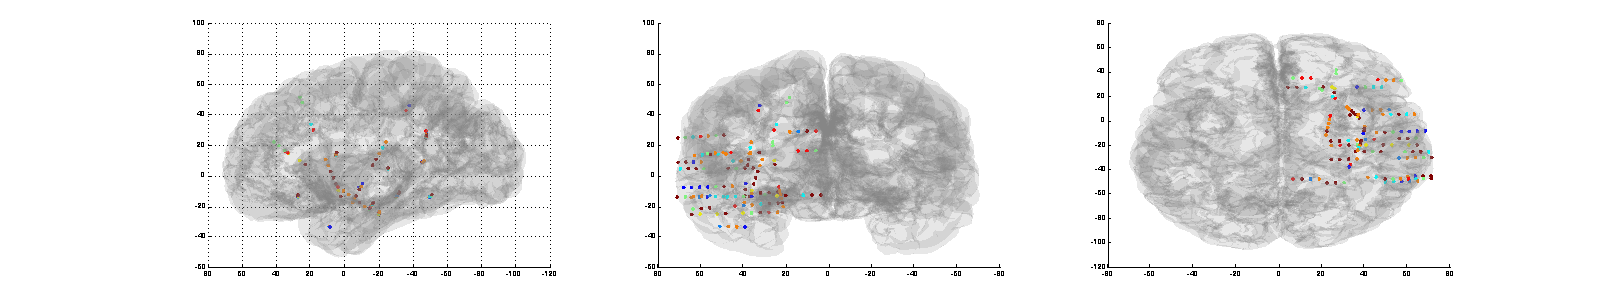
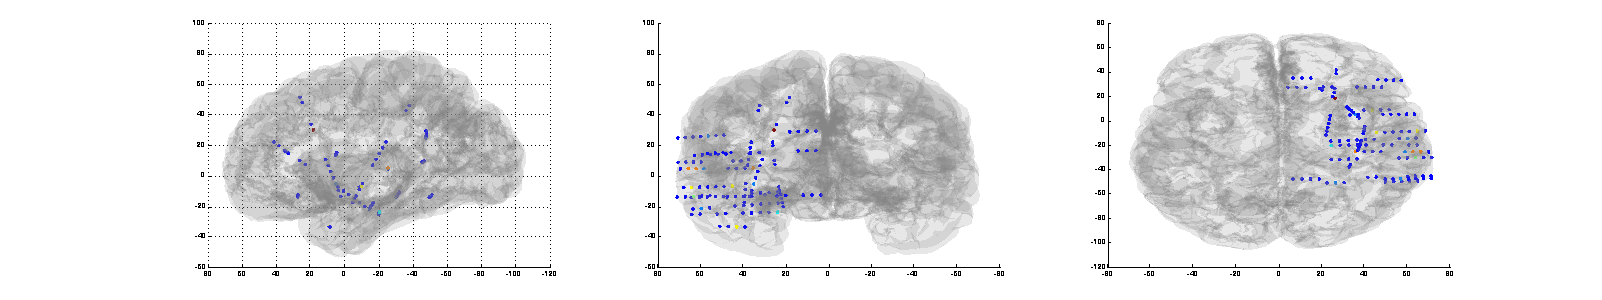
Plot probes to layer assignmed for all subjects, for each subject and for all subject per layer
Former-commit-id: e016f2ae005371a682de9434db48fba35d36eaea

diff --git a/Collusion/plot_map_all_subjects_per_layer.m b/Collusion/plot_map_all_subjects_per_layer.m
@@ -1,0 +1,73 @@
+%
+% Plot probes with colors based on the assigned layer
+% Each plot holds one layer and all subjects
+%
+
+%% List of subject for whom we have the mapping
+listing = dir('../../Data/Intracranial/Probe_to_Layer_Maps/*.txt')
+
+%% Load mesh data
+addpath('../Intracranial/lib/mnimesh')
+[tri, coord, nbr, normal]=mni_getmesh('../Intracranial/lib/mnimesh/outersurface.obj');
+color = zeros(size(coord(3, :)));
+
+
+%% Generate figure
+
+% layer color scale
+layercolors = jet(8);
+
+% for each layer
+for lid = 1:8
+
+    % plot the mesh
+    fig = figure('Position', [0, 0, 1600, 300], 'Visible', 'off');
+    xview = subplot(1, 3, 1);
+    mesh = trisurf(tri, coord(1,:), coord(2,:), coord(3,:), color, 'facealpha', 0.1);
+    colormap(gray);
+    set(mesh, 'edgecolor', 'none');
+    hold on;
+    
+    % for each subject
+    for fid = 1:length(listing)
+        [pathstr, name, ext] = fileparts(listing(fid).name);
+        subject = name;
+
+        % display progress
+        disp(['Processing ' num2str(fid) '/' num2str(length(listing)) ': ' subject '...'])
+
+        % load the data
+        load(['../../Data/Intracranial/Processed/maxamp/' subject '.mat'])
+
+        % load the mapping
+        probe_to_layer_map = load(['../../Data/Intracranial/Probe_to_Layer_Maps/' listing(fid).name]);
+
+        % plot each prob in corresponding color
+        for pid = 1:length(s.probes.mni)
+            if probe_to_layer_map(pid) == lid
+                plot3(s.probes.mni(pid, 1), s.probes.mni(pid, 2), s.probes.mni(pid, 3), ...
+                      '.', 'color', layercolors(probe_to_layer_map(pid), :), 'MarkerSize', 20);
+            end
+        end
+
+        % clear workspace
+        clearvars -except xview tri normal nbr mesh listing layercolors fig coord color lid
+
+    end
+
+    % produce x, y, z plane views
+    view([-1, 0, 0]);
+    yview = subplot(1, 3, 2);
+    copyobj(allchild(xview), yview);
+    view([0, 1, 0]);
+    zview = subplot(1, 3, 3);
+    copyobj(allchild(xview), zview);
+    view([0, 0, 1]);
+
+    % save the figure
+    drawnow;
+    r = 50;
+    set(gcf, 'PaperUnits', 'inches', 'PaperPosition', [0 0 1600 300]/r);
+    print(gcf, '-dpng', sprintf('-r%d', r), ['Figures/ALL-layer-' num2str(lid) '.png']);
+    
+end
